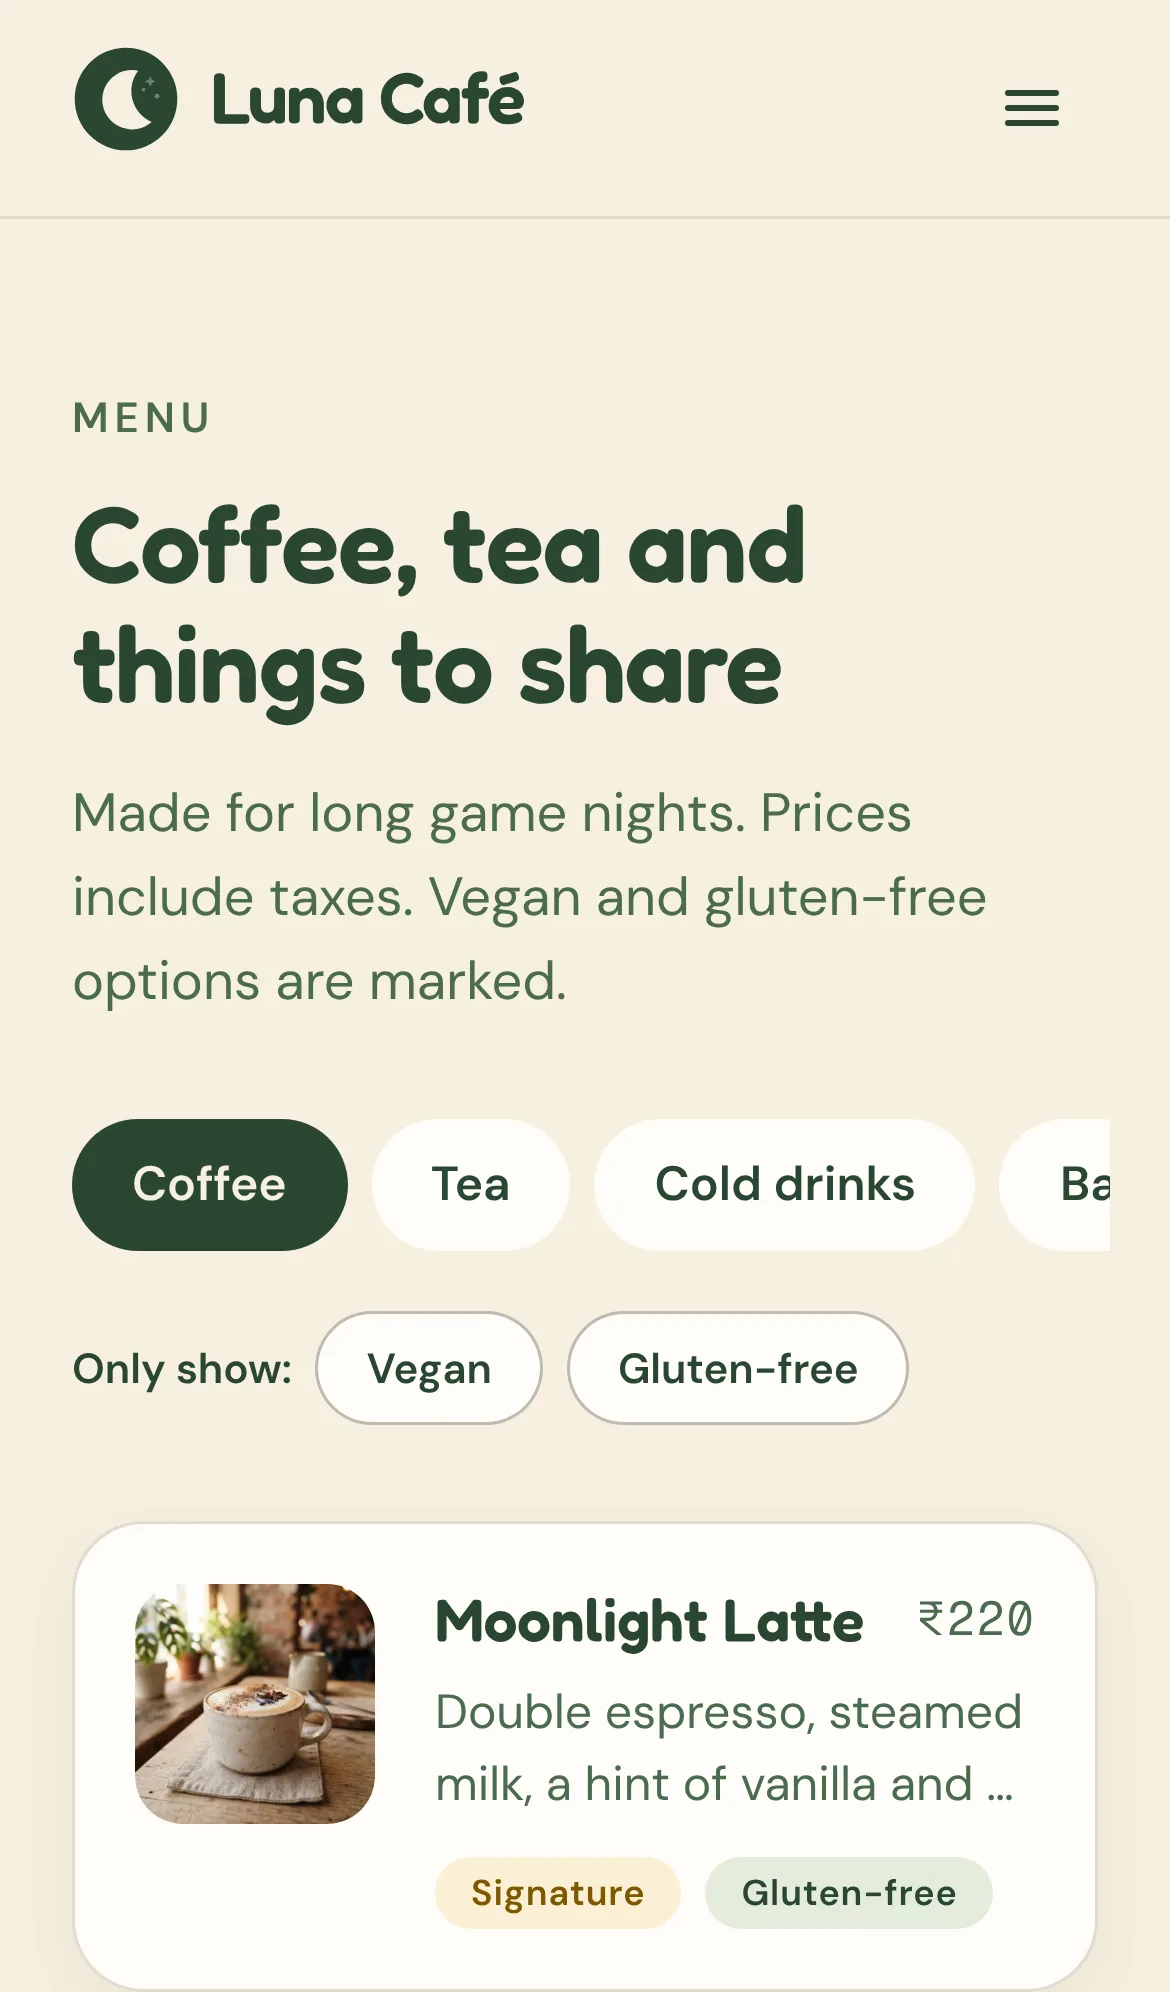
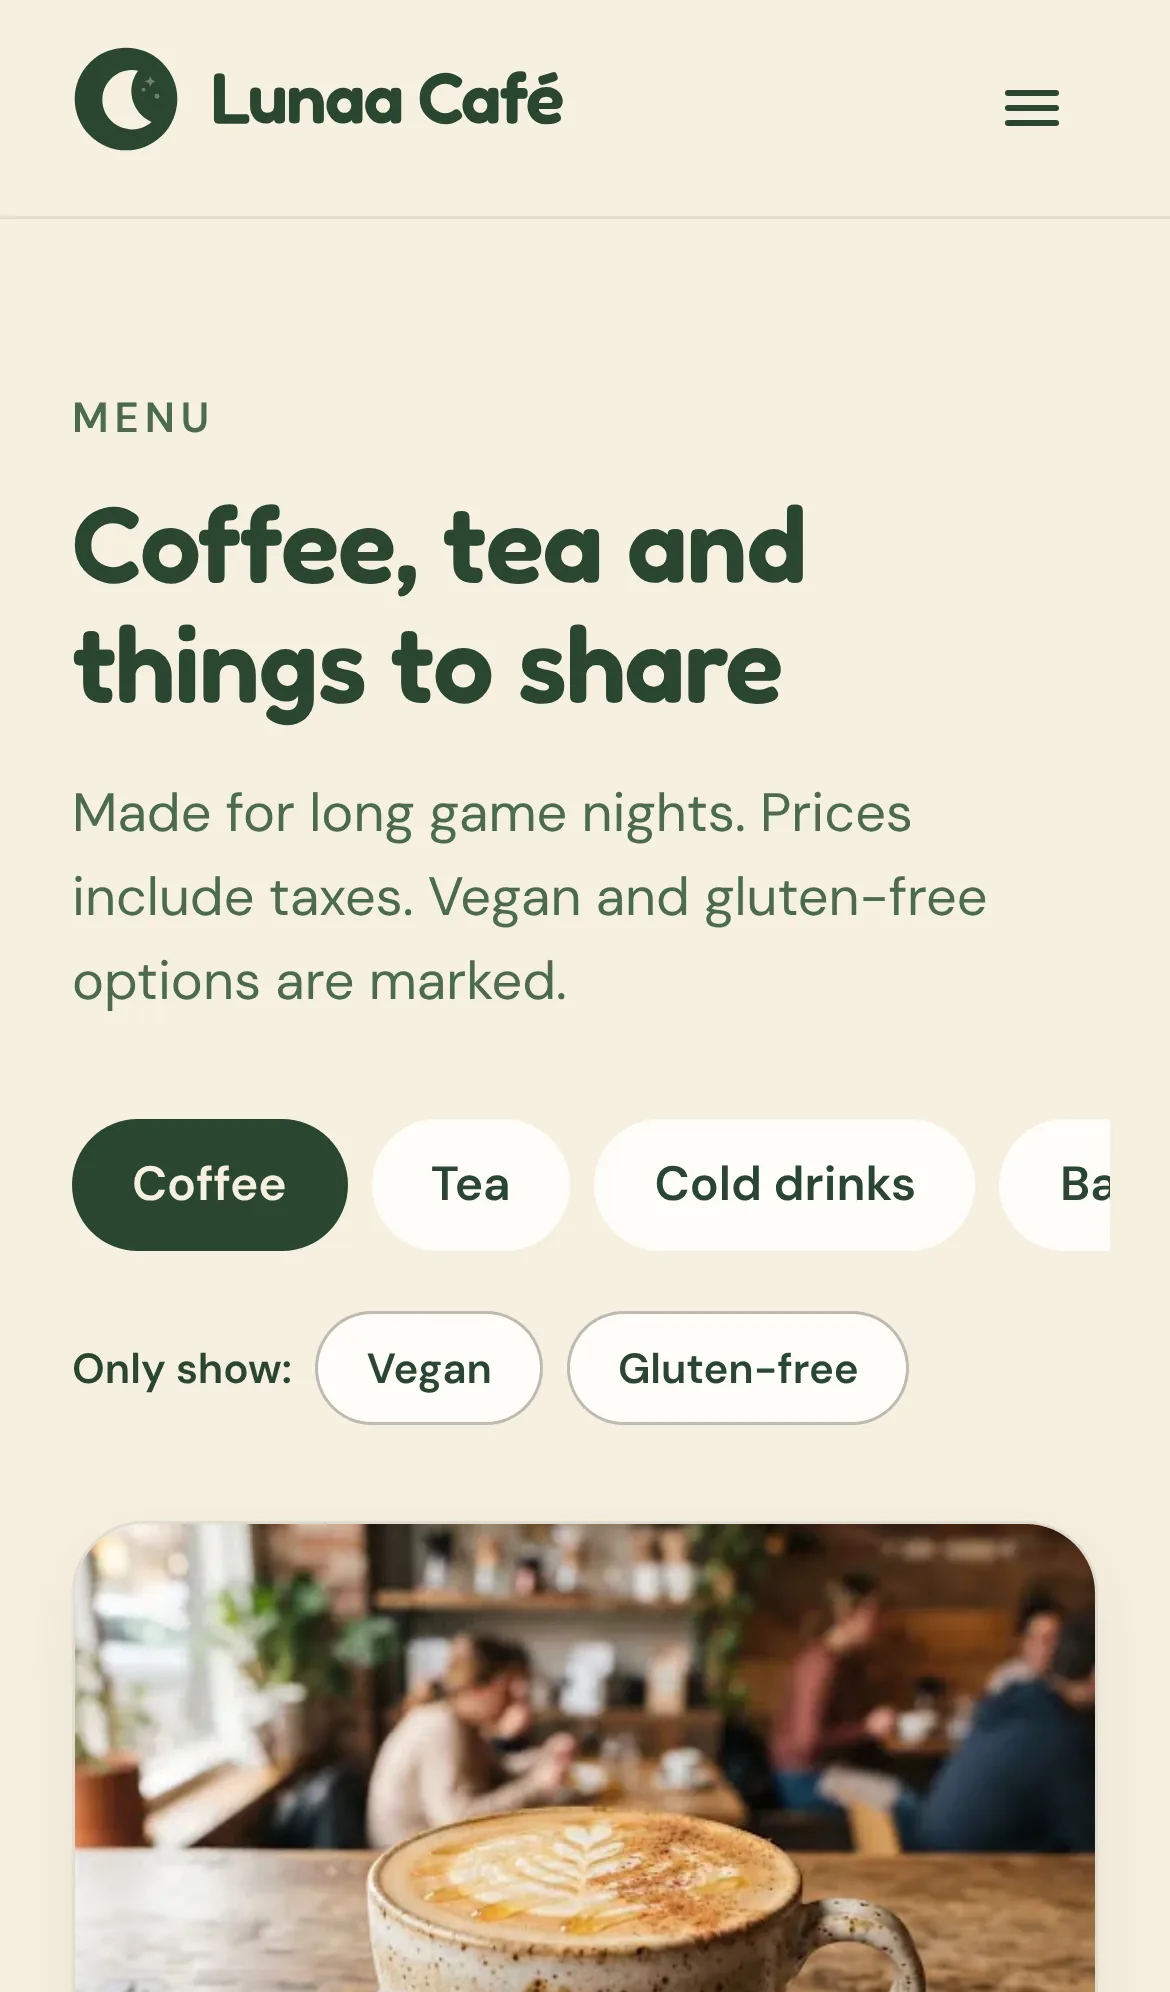
Rename the café to Lunaa Café to match lunaacafe.vercel.app
Every visible name: logo, header, footer, page titles, admin, quiz,
game tags ("Lunaa original"), map, About, emails (sender default,
subjects, calendar events), contact address, README and tests. The
storefront photo's sign now reads LUNAA CAFÉ. Internal names (repo,
database, cookie, LUNA- reference codes) are unchanged.

Claude-Session: https://claude.ai/code/session_01Bn7F5tY93wCotTJHDQ2YBh

Changed region(s): [[0.0615, 0.747, 0.9538, 1.0], [0.3077, 0.0311, 0.4923, 0.0622]]

diff --git a/server/src/emails/templates.ts b/server/src/emails/templates.ts
@@ -46,7 +46,7 @@ export function bookingConfirmation(b: BookingEmailInput, siteUrl: string): Mail
     siteUrl,
     preheader: `${b.referenceCode} · ${longDate(b.date)} at ${time}`,
     heading: `Table reserved, ${firstName(b.name)}!`,
-    body: `<p style="margin:0 0 14px;font-size:15px;line-height:1.6;color:#4A6B4F">Your table at Luna Café is booked. Show this code at the counter when you arrive:</p>
+    body: `<p style="margin:0 0 14px;font-size:15px;line-height:1.6;color:#4A6B4F">Your table at Lunaa Café is booked. Show this code at the counter when you arrive:</p>
 <p style="margin:0 0 16px"><span style="display:inline-block;background:#F6EFDF;border-radius:12px;padding:10px 16px;font-family:'Fragment Mono',Menlo,Consolas,monospace;font-size:22px;letter-spacing:2px;color:#294632">${escapeHtml(b.referenceCode)}</span></p>
 ${detailsTable(rows)}
 <p style="margin:18px 0 20px;font-size:14px;line-height:1.6;color:#4A6B4F">Tables are held for 90 minutes. Running late or need to change something? Just reply to this email or <a href="${escapeHtml(siteUrl)}/contact" style="color:#294632">send us a note</a>. The calendar file attached adds it to your calendar.</p>
@@ -69,7 +69,7 @@ ${button('See the menu', `${siteUrl}/menu`)}`,
         date: b.date,
         startMinutes: slot.startMinutes,
         durationMinutes: SLOT_LENGTH_MINUTES,
-        title: `Luna Café table for ${b.partySize}`,
+        title: `Lunaa Café table for ${b.partySize}`,
         description: `Reference ${b.referenceCode}. Table ${b.tableNumber}.${b.gameName ? ` Game: ${b.gameName}.` : ''}`,
         location: ADDRESS,
       })
@@ -77,7 +77,7 @@ ${button('See the menu', `${siteUrl}/menu`)}`,
 
   return {
     to: { email: b.email, name: b.name },
-    subject: `Your table at Luna Café: ${longDate(b.date)}, ${time} (${b.referenceCode})`,
+    subject: `Your table at Lunaa Café: ${longDate(b.date)}, ${time} (${b.referenceCode})`,
     html,
     text,
     attachments: ics ? [{ name: 'luna-cafe-booking.ics', content: Buffer.from(ics).toString('base64') }] : undefined,
@@ -122,7 +122,7 @@ ${button('See other events', `${siteUrl}/events`)}`,
     date: e.date,
     startMinutes: h * 60 + m,
     durationMinutes: 180,
-    title: `${e.title} at Luna Café`,
+    title: `${e.title} at Lunaa Café`,
     description: 'Your first drink is on us.',
     location: ADDRESS,
   });

diff --git a/client/src/lib/cafe.ts b/client/src/lib/cafe.ts
@@ -1,9 +1,9 @@
 // Café facts shown across the site. Keep in sync with server/src/lib/cafe.ts.
 export const CAFE = {
-  name: 'Luna Café',
+  name: 'Lunaa Café',
   tagline: 'Coffee first. Then game on?',
   address: ['14 Crescent Lane', 'Moonbeam Quarter, Panaji, Goa'],
-  email: 'hello@lunacafe.example',
+  email: 'hello@lunaacafe.example',
   phone: '+91 98765 43210',
   hours: [
     { days: 'Tuesday – Sunday', time: '10:00 – 22:00' },
@@ -33,8 +33,8 @@ export const HERO_PHOTO: { src: string; width: number; height: number; alt: stri
 
 /** Photos used around the site (in client/public/images). */
 export const PHOTOS = {
-  interior: { src: '/images/interior.webp', width: 512, height: 286, alt: 'Inside Luna Café: long wooden tables, green chairs, plants and a busy coffee bar' },
-  storefront: { src: '/images/storefront.webp', width: 324, height: 382, alt: 'The Luna Café front window at dusk, with friends at an outside table' },
+  interior: { src: '/images/interior.webp', width: 512, height: 286, alt: 'Inside Lunaa Café: long wooden tables, green chairs, plants and a busy coffee bar' },
+  storefront: { src: '/images/storefront.webp', width: 324, height: 382, alt: 'The Lunaa Café front window at dusk, with friends at an outside table' },
   croissant: { src: '/images/menu/twice-baked-almond-croissant.webp', width: 512, height: 512, alt: 'A twice-baked almond croissant on a plate' },
   focaccia: { src: '/images/menu/warm-rosemary-focaccia-bites.webp', width: 512, height: 512, alt: 'Warm rosemary focaccia bites in a bowl' },
   matcha: { src: '/images/menu/ceremonial-matcha-latte.webp', width: 512, height: 512, alt: 'A layered iced matcha latte' },

diff --git a/server/src/emails/layout.ts b/server/src/emails/layout.ts
@@ -27,13 +27,13 @@ export function layout({ preheader, heading, body, siteUrl }: { preheader: strin
 <div style="display:none;max-height:0;overflow:hidden">${escapeHtml(preheader)}</div>
 <table role="presentation" width="100%" cellpadding="0" cellspacing="0" style="background:${C.cream}"><tr><td align="center" style="padding:28px 14px">
 <table role="presentation" width="100%" cellpadding="0" cellspacing="0" style="max-width:560px">
-<tr><td style="padding:0 6px 16px;font-size:22px;font-weight:700;color:${C.dark}">&#9790; Luna Café</td></tr>
+<tr><td style="padding:0 6px 16px;font-size:22px;font-weight:700;color:${C.dark}">&#9790; Lunaa Café</td></tr>
 <tr><td style="background:${C.card};border:1px solid ${C.line};border-radius:20px;padding:28px">
 <h1 style="margin:0 0 10px;font-size:26px;line-height:1.2;color:${C.dark}">${escapeHtml(heading)}</h1>
 ${body}
 </td></tr>
 <tr><td style="padding:16px 6px;font-size:12px;line-height:1.5;color:${C.forest}">
-Luna Café is a fictional café and <a href="${escapeHtml(siteUrl)}" style="color:${C.forest}">${escapeHtml(siteUrl.replace(/^https?:\/\//, ''))}</a> is a portfolio demo, so nobody is actually expecting you. Thanks for trying it! You got this email because this address was entered on the site.
+Lunaa Café is a fictional café and <a href="${escapeHtml(siteUrl)}" style="color:${C.forest}">${escapeHtml(siteUrl.replace(/^https?:\/\//, ''))}</a> is a portfolio demo, so nobody is actually expecting you. Thanks for trying it! You got this email because this address was entered on the site.
 </td></tr>
 </table></td></tr></table></body></html>`;
 }

diff --git a/server/tests/emails.test.ts b/server/tests/emails.test.ts
@@ -21,7 +21,7 @@ describe('booking confirmation email', () => {
   it('has the code, date, time, table and game in both HTML and text', () => {
     const m = bookingConfirmation(booking, SITE);
     expect(m.to).toEqual({ email: 'asha@example.com', name: 'Asha <b>Rao</b>' });
-    expect(m.subject).toBe('Your table at Luna Café: Wednesday 25 November 2026, 19:00 (LUNA-7KQ4M)');
+    expect(m.subject).toBe('Your table at Lunaa Café: Wednesday 25 November 2026, 19:00 (LUNA-7KQ4M)');
     for (const body of [m.html, m.text]) {
       for (const part of ['LUNA-7KQ4M', 'Wednesday 25 November 2026', '19:00 – 20:30', 'No. 5', 'Catan', 'portfolio demo']) {
         expect(body).toContain(part);
@@ -109,7 +109,7 @@ describe('mailer', () => {
     expect(url).toBe('https://api.brevo.com/v3/smtp/email');
     expect((init!.headers as Record<string, string>)['api-key']).toBe('test-key');
     const body = JSON.parse(String(init!.body));
-    expect(body.sender).toEqual({ email: 'hello@example.com', name: 'Luna Café' });
+    expect(body.sender).toEqual({ email: 'hello@example.com', name: 'Lunaa Café' });
     expect(body.to).toEqual([{ email: 'asha@example.com', name: 'Asha <b>Rao</b>' }]);
     expect(body.attachment[0].name).toBe('luna-cafe-booking.ics');
   });

diff --git a/client/src/components/MiniMap.tsx b/client/src/components/MiniMap.tsx
@@ -2,7 +2,7 @@
 export function MiniMap() {
   return (
     <div className="overflow-hidden rounded-card border border-outline/60 bg-sage-soft shadow-soft">
-      <svg viewBox="0 0 480 320" role="img" aria-label="Map: Luna Café on Crescent Lane, near the river promenade" className="block h-auto w-full">
+      <svg viewBox="0 0 480 320" role="img" aria-label="Map: Lunaa Café on Crescent Lane, near the river promenade" className="block h-auto w-full">
         <rect width="480" height="320" fill="#E4ECDC" />
         <path d="M0 250c80-20 160-10 240 10s160 20 240-5v65H0Z" fill="#C9DCE6" />
         <g stroke="#FFFDF8" strokeWidth="18" strokeLinecap="round" fill="none">
@@ -23,7 +23,7 @@ export function MiniMap() {
           <path d="M5-13a12 12 0 1 0 6 21A13.5 13.5 0 0 1 5-13Z" fill="#F6EFDF" />
           <path d="M-9 24 0 38 9 24" fill="#294632" />
         </g>
-        <text x="274" y="166" fontFamily="Fredoka, sans-serif" fontSize="18" fontWeight="600" fill="#294632">Luna Café</text>
+        <text x="274" y="166" fontFamily="Fredoka, sans-serif" fontSize="18" fontWeight="600" fill="#294632">Lunaa Café</text>
       </svg>
     </div>
   );

diff --git a/client/src/pages/About.tsx b/client/src/pages/About.tsx
@@ -25,13 +25,13 @@ export function About() {
   return (
     <>
       <PageHeader eyebrow="About" title="A café that happens to have a lot of games">
-        <p>Luna Café started with one shelf of games and a very good espresso machine. People stayed longer than planned. So we added more shelves.</p>
+        <p>Lunaa Café started with one shelf of games and a very good espresso machine. People stayed longer than planned. So we added more shelves.</p>
       </PageHeader>
 
       <div className="container-page grid gap-10 pb-16 lg:grid-cols-2">
         <Reveal className="space-y-4 text-lg text-forest-dark">
           <p>
-            Mira opened Luna in a quiet lane in Panaji in 2021, wanting a place that felt like a friend's living room: sunny in the morning,
+            Mira opened Lunaa in a quiet lane in Panaji in 2021, wanting a place that felt like a friend's living room: sunny in the morning,
             cosy at night. Friends brought their board games along, and the games never went home.
           </p>
           <p>

diff --git a/client/src/admin/AdminLayout.tsx b/client/src/admin/AdminLayout.tsx
@@ -53,7 +53,7 @@ export function AdminLayout() {
 
   return (
     <div className="min-h-dvh bg-cream lg:grid lg:grid-cols-[15rem_1fr]">
-      <title>Admin · Luna Café</title>
+      <title>Admin · Lunaa Café</title>
       <meta name="robots" content="noindex, nofollow" />
       <a href="#admin-main" className="sr-only focus:not-sr-only focus:fixed focus:left-4 focus:top-4 focus:z-50 focus:rounded-full focus:bg-forest-dark focus:px-5 focus:py-3 focus:text-cream">
         Skip to content
@@ -63,7 +63,7 @@ export function AdminLayout() {
         <div className="flex items-center justify-between px-5 py-4 lg:py-6">
           <Link to="/admin" className="twinkle-host flex items-center gap-2.5 rounded-xl">
             <MoonMark className="[&_circle:first-child]:text-cream/15" />
-            <span className="font-display text-xl font-semibold">Luna admin</span>
+            <span className="font-display text-xl font-semibold">Lunaa admin</span>
           </Link>
           <button
             type="button"

diff --git a/client/src/admin/Login.tsx b/client/src/admin/Login.tsx
@@ -37,13 +37,13 @@ export function Login() {
 
   return (
     <div className="grid min-h-dvh place-items-center bg-cream px-5 py-12">
-      <title>Sign in · Luna admin</title>
+      <title>Sign in · Lunaa admin</title>
       <meta name="robots" content="noindex, nofollow" />
       <Card className="w-full max-w-sm">
         <div className="twinkle-host flex flex-col items-center text-center">
           <MoonMark className="size-12" />
           <h1 className="mt-4 text-3xl">Staff sign in</h1>
-          <p className="mt-1 text-forest">Luna Café admin</p>
+          <p className="mt-1 text-forest">Lunaa Café admin</p>
         </div>
         <form onSubmit={submit} noValidate className="mt-8 flex flex-col gap-5">
           <Field label="Email" type="email" autoComplete="username" value={form.email} onChange={(e) => setForm({ ...form, email: e.target.value })} error={error?.fields?.email} required autoFocus />

diff --git a/client/index.html b/client/index.html
@@ -6,8 +6,8 @@
     <meta name="viewport" content="width=device-width, initial-scale=1.0" />
     <meta name="theme-color" content="#F6EFDF" />
     <link rel="preload" as="image" href="/images/hero.webp" type="image/webp" fetchpriority="high" />
-    <meta name="description" content="Luna Café: specialty coffee, cosy corners and a shelf full of board games. Coffee first. Then game on?" />
-    <title>Luna Café · Coffee first. Then game on?</title>
+    <meta name="description" content="Lunaa Café: specialty coffee, cosy corners and a shelf full of board games. Coffee first. Then game on?" />
+    <title>Lunaa Café · Coffee first. Then game on?</title>
   </head>
   <body>
     <div id="root"></div>

diff --git a/client/src/admin/GamesAdmin.tsx b/client/src/admin/GamesAdmin.tsx
@@ -86,7 +86,7 @@ export function GamesAdmin() {
           <TextAreaField label="Rules summary" value={f.rulesSummary} onChange={(ev) => set({ rulesSummary: ev.target.value })} error={e.rulesSummary} maxLength={1200} />
           <div className="flex flex-wrap gap-6">
             <Checkbox label="Available on the shelf" checked={f.isAvailable} onChange={(isAvailable) => set({ isAvailable })} />
-            <Checkbox label="Luna original (invented game)" checked={f.isInvented} onChange={(isInvented) => set({ isInvented })} />
+            <Checkbox label="Lunaa original (invented game)" checked={f.isInvented} onChange={(isInvented) => set({ isInvented })} />
           </div>
         </>
       )}

diff --git a/e2e/tests/site.spec.ts b/e2e/tests/site.spec.ts
@@ -7,7 +7,7 @@ test('the game quiz suggests three games that seat the group', async ({ page }) 
   await quiz.getByRole('button', { name: /3 or 4/ }).click();
   await quiz.getByRole('button', { name: /About an hour/ }).click();
   await quiz.getByRole('button', { name: /Brainy/ }).click();
-  await expect(quiz.getByRole('heading', { name: 'Your Luna table matches' })).toBeVisible();
+  await expect(quiz.getByRole('heading', { name: 'Your Lunaa table matches' })).toBeVisible();
   await expect(quiz.getByRole('listitem')).toHaveCount(3);
   await expect(quiz.getByRole('link', { name: /Book a table for/ })).toBeVisible();
 });

diff --git a/client/src/components/LoyaltyCard.tsx b/client/src/components/LoyaltyCard.tsx
@@ -42,7 +42,7 @@ export function LoyaltyCard() {
     <div className="twinkle-host rounded-[2rem] bg-forest-dark p-6 text-cream shadow-lift sm:p-8">
       <div className="flex items-start justify-between gap-4">
         <div>
-          <p className="text-sm font-semibold uppercase tracking-[0.14em] text-cream/75">Luna Café</p>
+          <p className="text-sm font-semibold uppercase tracking-[0.14em] text-cream/75">Lunaa Café</p>
           <p className="mt-1 font-display text-3xl font-semibold">Moon Club card</p>
         </div>
         <svg viewBox="0 0 24 24" className="size-8 text-cream" aria-hidden="true">
